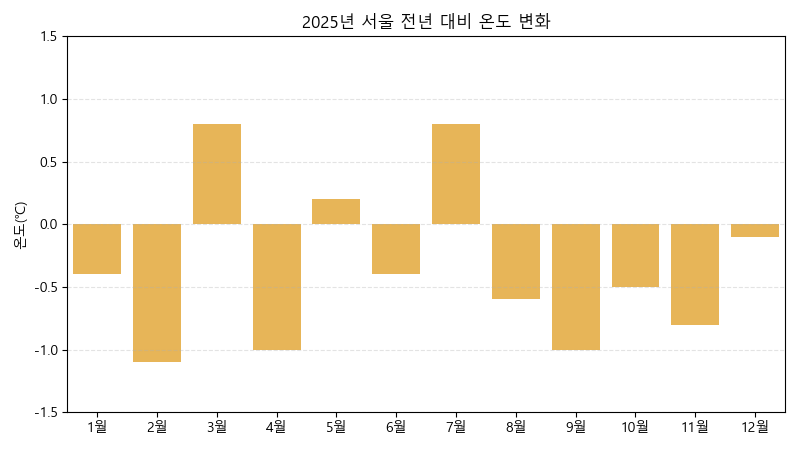
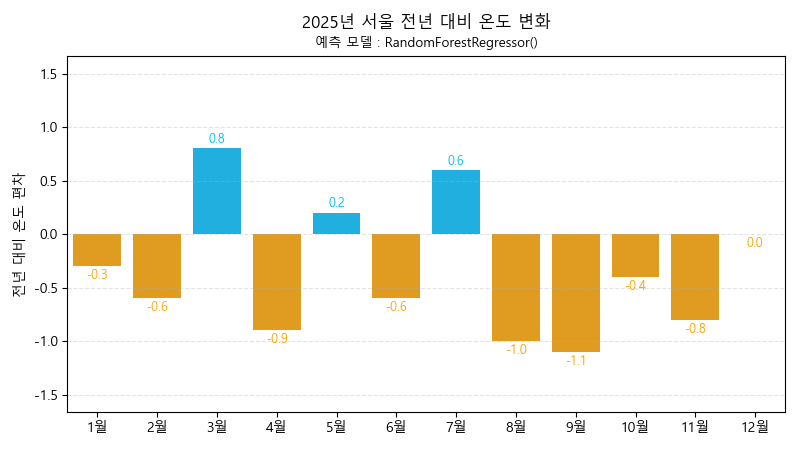
추가 작업 그래프 출력 방식 업데이트 버그 수정

diff --git a/temp_predictor.py b/temp_predictor.py
@@ -20,6 +20,7 @@ from matplotlib import font_manager
 from matplotlib import rc
 import time
 import os
+import warnings
 
 mpl.rc('axes', unicode_minus=False)
 mpl.rcParams['axes.unicode_minus']=False
@@ -27,6 +28,7 @@ pd.set_option("display.max_colwidth",20) # 출력할 열의 너비
 pd.set_option("display.unicode.east_asian_width",True) # 유니코드 사용 너비 조정
 font_name = font_manager.FontProperties(fname='c:/windows/Fonts/malgun.ttf').get_name()
 rc('font', family=font_name)
+warnings.simplefilter("ignore", UserWarning)
 
 def checker(data):
   try:
@@ -64,27 +66,20 @@ def load_dataframe(name_folder=None,name_file=None,encodeing_option='cp949'):
 pathsave = 'C:/Mtest/project_first/'
 
 #--------------------------------------------------
-# 프로그램 데이터
-LNR = LinearRegression()
-DTR = DecisionTreeRegressor()
-RFR = RandomForestRegressor()
-SVM = SVR(kernel='linear')
-model = RFR # 기본 모델 : 랜덤포레스트회귀
-
-#--------------------------------------------------
 # 프로그램 소개
 intro = f'''
-{'-'*40}
+{'- '*40}
 이 프로그램은 2000년부터 2024년까지의 기상청 데이터를 바탕으로 2025년의 온도를 예측합니다.
 기본적으로 ./data 폴더를 기반으로 데이터를 불러오며, 폴더와 파일명을 입력하는 것으로 데이터 파일을 호출할 수 있습니다.
 또한, 예측 모델을 변경할 수 있으며, 기본적으로 랜덤포레스트 회귀 모델을 사용합니다. 모델은 변경할 수 있으며, 변경 가능한 모델은 선형회귀, 의사결정트리, 랜덤포레스트, 서포트벡터회귀 모델을 지원합니다.
 필요에 따라 예측 후 그래프를 생성하고 저장할 수 있으며, 그래프는 ./pic 폴더에 저장됩니다. 또한, 저장 후 즉시 출력하는 기능이 포함되어 있습니다.
-{'-'*40}
+{'- '*40}
 '''
 
 #--------------------------------------------------
 # 예측 실행 함수
-def model_running():
+def model_running(m):
+  model = m
   # 데이터프레임 호출
   df1,df2,locate_folder,locate_file = load_dataframe() # 폴더명, 파일명으로 추적 
   if df1 is None:
@@ -195,7 +190,7 @@ def model_running():
     if gcode == 'y':
       os.makedirs("./pic", exist_ok=True) # 폴더 유무 체크 후 생성
       # 시각화 : lineplot
-      plt.figure(figsize=(8,4.5))
+      fig1 = plt.figure(figsize=(8,4.5))
       plt.plot(cal['월'],cal['평균기온(℃)'],marker='o',markersize=4.5,label='2024년 평균온도',color='royalblue')
       plt.plot(dfp['월'],dfp['평균기온(℃)'],marker='o',markersize=4.5,label='2025년 평균온도',color='forestgreen')
       plt.plot(cal['월'],cal['예측기온(℃)'],marker='o',markersize=4.5,label='2025년 예측온도',color='red')
@@ -208,7 +203,8 @@ def model_running():
       plt.ylabel('온도(℃)')
       plt.xlabel('')
       plt.ylim(-3.5,32.5)
-      plt.title(f'2025년 {locate_file} 기온 예측')
+      plt.title(f'2025년 {locate_file} 기온 예측\n')
+      plt.text(6.5, 33.5, f'예측 모델 : {model}', fontsize=9.5, ha='center')
       plt.legend(loc='best')
       plt.grid(axis='y',linestyle='--',alpha=0.35)
       plt.tight_layout()
@@ -216,13 +212,27 @@ def model_running():
       print(f'>>> C:/Mtest/project_first/pic/{locate_folder}_2025_L_1.0.png')
       #--------------------------------------------------
       # 시각화 : barplot
-      plt.figure(figsize=(8,4.5))
-      sb.barplot(dfp,x='월',y='전년대비',color='orange',alpha=0.75)
+      fig2 = plt.figure(figsize=(8,4.5))
+      colors = ['deepskyblue' if y > 0 else 'orange' for y in dfp['전년대비']]
+      sb.barplot(dfp,x='월',y='전년대비',palette=colors,hue='월',legend=False)
+      
+      for i, (x, y) in enumerate(zip(dfp['월'], dfp['전년대비'])):  # '기온변화' 컬럼 사용
+        offset = 0.05 if y > 0 else -0.12
+        plt.text(i, y+offset, f"{y:.1f}", fontsize=9, ha='center', color='deepskyblue' if y > 0 else 'orange')
+      
       plt.xticks(range(12), labels=[f"{i}월" for i in range(1, 13)])
-      plt.ylabel('온도(℃)')
+      plt.ylabel('전년 대비 온도 편차')
       plt.xlabel('')
-      plt.ylim(-1.5,1.5)
-      plt.title(f'2025년 {locate_file} 전년 대비 온도 변화')
+
+      y_abs_max = max(abs(dfp['전년대비'].min()), abs(dfp['전년대비'].max()))
+      ylim_max = max(1.5, y_abs_max)
+      ylim_max = min(ylim_max+(y_abs_max*0.15), 4.5)
+      ylim_min = -ylim_max
+
+      plt.ylim(ylim_min, ylim_max)
+      plt.title(f'2025년 {locate_file} 전년 대비 온도 변화\n')
+      sub_y = ylim_max * 1.05
+      plt.text(5.5, sub_y, f'예측 모델 : {model}', fontsize=9.5, ha='center')
       plt.grid(axis='y',linestyle='--',alpha=0.35)
       plt.tight_layout()
       plt.savefig(f'C:/Mtest/project_first/pic/{locate_folder}_2025_B_1.0.png')
@@ -232,6 +242,10 @@ def model_running():
         gcode = input('>>> 그래프를 바로 확인하시겠습니까? (y/n) : ')
         if gcode == 'y':
           print('- '*40)
+          def on_close(event):
+            plt.close('all')
+          fig1.canvas.mpl_connect('close_event', on_close)
+          fig2.canvas.mpl_connect('close_event', on_close)
           plt.show()
           break
         elif gcode == 'n':
@@ -247,37 +261,43 @@ def model_running():
 
 #--------------------------------------------------
 # 프로그램
+def predictor():
+  LNR = LinearRegression()
+  DTR = DecisionTreeRegressor()
+  RFR = RandomForestRegressor()
+  SVM = SVR(kernel='linear')
+  model = RFR # 기본 모델 : 랜덤포레스트회귀
+  print('>>> 2025년 기온 예측 프로그램을 실행합니다.')
+  while True:
+    print('>>> 1. 예측 실행 / 2. 모델 변경 / 3. 프로그램 소개 / q. 종료')
+    exec = input('>>> 실행 작업 선택 : ')
 
-print('>>> 2025년 기온 예측 프로그램을 실행합니다.')
-while True:
-  print('>>> 1. 예측 실행 / 2. 모델 변경 / 3. 프로그램 소개 / q. 종료')
-  exec = input('>>> 실행 작업 선택 : ')
+    if exec == '1':
+      print(f'\n>>> 예측 모델을 실행합니다.')
+      model_running(model)
 
-  if exec == '1':
-    print(f'\n>>> 예측 모델을 실행합니다.')
-    model_running()
+    elif exec == '2':
+      print('\n>>> 모델을 변경합니다.')
+      try:
+        print(">>> 사용 가능한 모델 목록\nLNR : LinearRegression()\nDTR : DecisionTreeRegressor()\nRFR : RandomForestRegressor()\nSVM : SVR(kernel='linear')")
+        model = eval(input('>>> 모델 입력 : '))
+        print(f'>>> 모델 변경 완료.\n{'- '*40}')
+      except:
+        print(f'>>> 모델명 입력 오류\n{'- '*40}')
 
-  elif exec == '2':
-    print('\n>>> 모델을 변경합니다.')
-    try:
-      print(">>> 사용 가능한 모델 목록\nLNR : LinearRegression()\nDTR : DecisionTreeRegressor()\nRFR : RandomForestRegressor()\nSVM : SVR(kernel='linear')")
-      model = eval(input('>>> 모델 입력 : '))
-      print(f'>>> 모델 변경 완료.\n{'- '*40}')
-    except:
-      print(f'>>> 모델명 입력 오류\n{'- '*40}')
+    elif exec == '3':print(f'\n>>> 프로그램 소개{intro}')
 
-  elif exec == '3':
-    print(f'\n>>> 프로그램 소개\n{intro}')
+    elif exec == 'q':
+      print(f'\n>>> 프로그램을 종료합니다.')
+      break
 
-  elif exec == 'q':
-    print(f'\n>>> 프로그램을 종료합니다.')
-    break
+    elif exec == 'T':print(f'\n>>> TRACER\n현재 모델 : {model}\n{'- '*40}')
 
-  elif exec == 'T':
-    print(f'\n>>> TRACER\n현재 모델 : {model}\n{'- '*40}')
+    else:
+      print('>>> 경고! 잘못된 입력입니다.\n')
+      continue
 
-  else:
-    print('>>> 경고! 잘못된 입력입니다.\n')
-    continue
+if __name__ == "__main__":
+  predictor()
 
 print('='*80)
